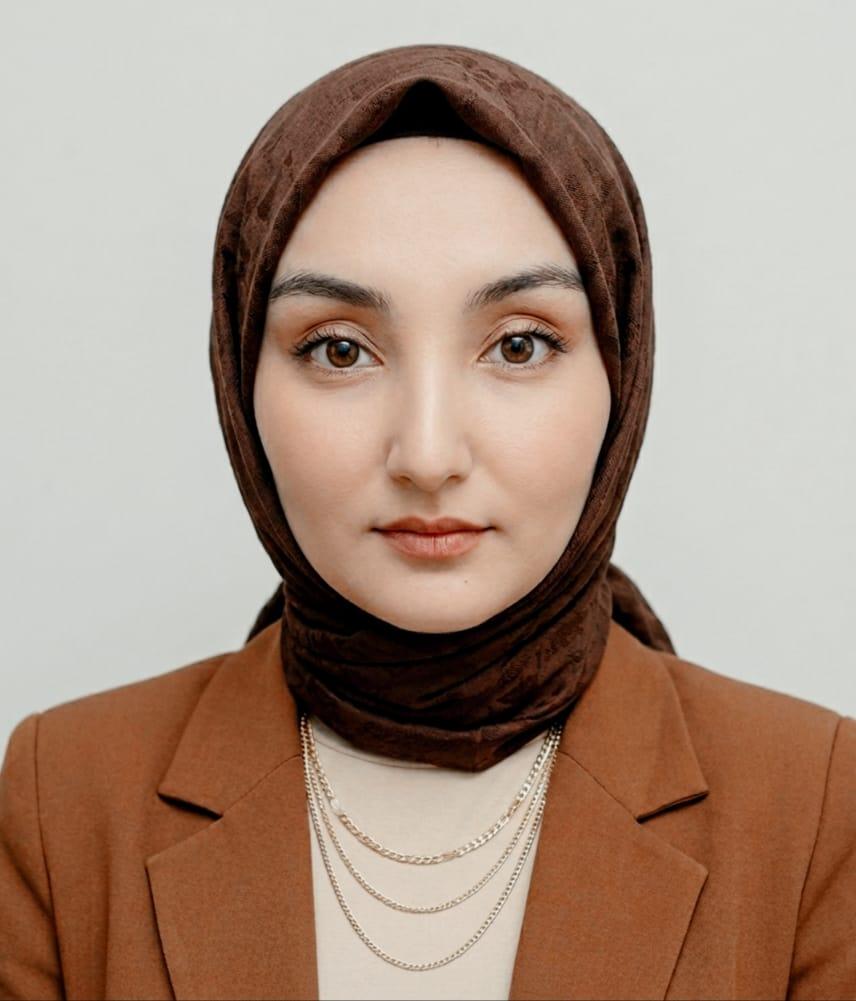
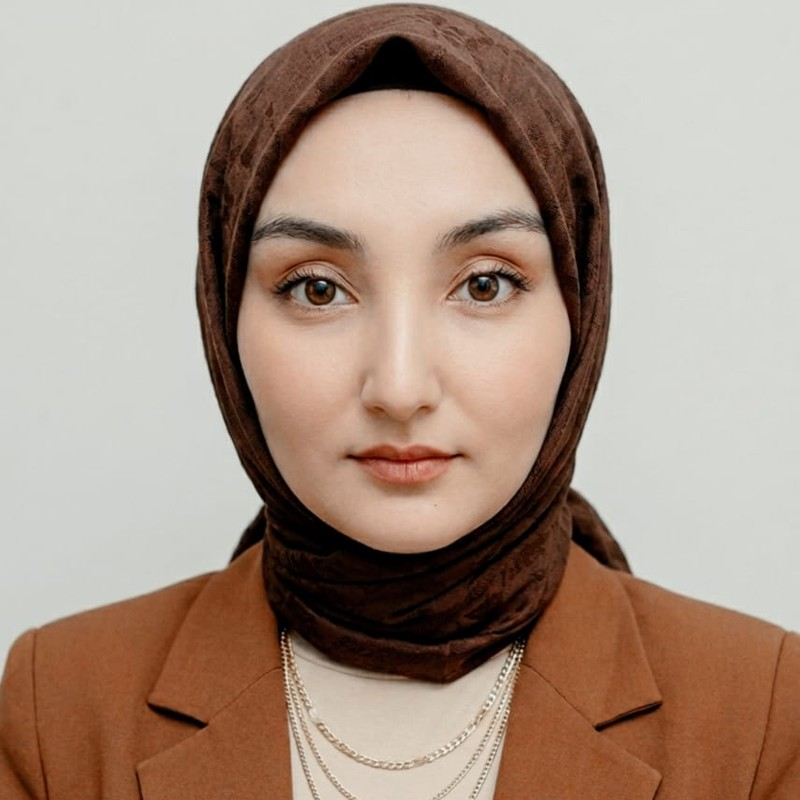
UPDATE TEAM PROFILES

Changed region(s): [[0.0, 0.2812, 1.0, 1.0], [0.25, 0.0, 0.7812, 0.2812], [0.75, 0.875, 0.8438, 1.0]]

diff --git a/fa/team/hakimi.html b/fa/team/hakimi.html
@@ -3,22 +3,22 @@
 <head>
   <meta charset="UTF-8">
   <meta name="viewport" content="width=device-width, initial-scale=1.0">
-  <title>حسیب الله کریمی — Mind i مرکز تحقیق و توانمندسازی</title>
-  <meta name="description" content="حسیب الله کریمی — مسئول امور محصلان در Mind i، مرکز تحقیق و توانمندسازی.">
+  <title>داکتر حسیب الله حکیمی — Mind i مرکز تحقیق و توانمندسازی</title>
+  <meta name="description" content="داکتر حسیب الله حکیمی — مسئول امور محصلان در Mind i، مرکز تحقیق و توانمندسازی.">
   <meta name="theme-color" content="#FFFFFF">
   <meta property="og:type" content="website">
   <meta property="og:site_name" content="Mind i">
   <meta property="og:locale" content="fa_AF">
-  <meta property="og:title" content="حسیب الله کریمی — Mind i مرکز تحقیق و توانمندسازی">
-  <meta property="og:description" content="حسیب الله کریمی — مسئول امور محصلان در Mind i، مرکز تحقیق و توانمندسازی.">
+  <meta property="og:title" content="داکتر حسیب الله حکیمی — Mind i مرکز تحقیق و توانمندسازی">
+  <meta property="og:description" content="داکتر حسیب الله حکیمی — مسئول امور محصلان در Mind i، مرکز تحقیق و توانمندسازی.">
   <meta property="og:url" content="https://mindiresearch.vercel.app/fa/team/hakimi.html">
   <meta property="og:image" content="https://mindiresearch.vercel.app/assets/og-image.png">
   <meta property="og:image:width" content="1200">
   <meta property="og:image:height" content="630">
   <meta property="og:image:alt" content="Mind i — Research &amp; Empowerment Center">
   <meta name="twitter:card" content="summary_large_image">
-  <meta name="twitter:title" content="حسیب الله کریمی — Mind i مرکز تحقیق و توانمندسازی">
-  <meta name="twitter:description" content="حسیب الله کریمی — مسئول امور محصلان در Mind i، مرکز تحقیق و توانمندسازی.">
+  <meta name="twitter:title" content="داکتر حسیب الله حکیمی — Mind i مرکز تحقیق و توانمندسازی">
+  <meta name="twitter:description" content="داکتر حسیب الله حکیمی — مسئول امور محصلان در Mind i، مرکز تحقیق و توانمندسازی.">
   <meta name="twitter:image" content="https://mindiresearch.vercel.app/assets/og-image.png">
 
 
@@ -116,16 +116,33 @@
       <div class="max-w-7xl mx-auto px-6 lg:px-10 py-14 md:py-20">
         <a href="../team.html" class="back-link"><i class="fa-solid fa-arrow-right"></i> بازگشت به تیم</a>
         <div class="profile-hero mt-10 reveal">
-          <span class="profile-avatar"><img src="../../assets/avatar-male.png" alt="" loading="lazy"></span>
+          <span class="profile-avatar"><img src="../../assets/team-hakimi.jpg" alt="داکتر حسیب الله حکیمی" loading="lazy"></span>
           <p class="kicker mt-6">پروفایل عضو تیم</p>
-          <h1 class="font-serif font-semibold text-3xl sm:text-4xl mt-3">حسیب الله کریمی</h1>
+          <h1 class="font-serif font-semibold text-3xl sm:text-4xl mt-3">داکتر حسیب الله حکیمی</h1>
           <p class="author-role mt-2">مسئول امور محصلان</p>
         </div>
       </div>
     </section>
 
+    <!-- ============================= معرفی ============================= -->
+    <section class="section-pad border-t border-rule">
+      <div class="max-w-7xl mx-auto px-6 lg:px-10">
+        <div class="max-w-3xl mx-auto reveal">
+          <p class="kicker text-center">معرفی</p>
+          <p class="profile-intro mt-6">
+            حسیب الله حکیمی محصل سال پنجم رشتهٔ طب از افغانستان است که علاقهٔ زیادی به تحقیقات طبی، آموزش طبی
+            و توسعهٔ اکادمیک دارد. او بهصورت فعال در تحقیقات علمی سهم میگیرد، مضامین طبی تدریس میکند و
+            متعهد به ترویج یادگیری مبتنی بر شواهد در میان محصلان طب است. حسیب الله عضو فعال Mind i مرکز تحقیق
+            و ظرفیتسازی است، جایی که در تحقیق، توسعهٔ محصلان و ابتکارات اکادمیک سهم میگیرد. زمینههای
+            حرفهای او شامل طب بالینی، صحت عامه و پیشبرد نظام صحی از طریق تحقیق، تعلیم و همکاری میشود. او
+            متعهد به یادگیری مداوم و سهمگیری معنادار در طب و صحت افغانستان و فراتر از آن است.
+          </p>
+        </div>
+      </div>
+    </section>
+
     <!-- ============================= سخن ============================= -->
-    <section class="section-pad">
+    <section class="section-pad border-t border-rule">
       <div class="max-w-7xl mx-auto px-6 lg:px-10">
         <div class="flex flex-col items-center text-center">
           <blockquote class="profile-quote reveal">
@@ -133,8 +150,7 @@
           </blockquote>
 
           <div class="social-links mt-10 reveal">
-            <a href="mailto:mindi.insights@gmail.com" class="social-link"><i class="fa-solid fa-envelope"></i> ایمیل به Mind i</a>
-            <a href="https://www.linkedin.com/company/mind-i" target="_blank" rel="noopener" class="social-link"><i class="fa-brands fa-linkedin"></i> Mind i در لینکدین</a>
+            <a href="https://www.linkedin.com/in/hasibullah-hakimi-2b37683a8" target="_blank" rel="noopener" class="social-link"><i class="fa-brands fa-linkedin"></i> داکتر حکیمی در لینکدین</a>
           </div>
         </div>
       </div>

diff --git a/team/hakimi.html b/team/hakimi.html
@@ -3,22 +3,22 @@
 <head>
   <meta charset="UTF-8">
   <meta name="viewport" content="width=device-width, initial-scale=1.0">
-  <title>Hasibullah Hakimi — Mind i Research &amp; Empowerment Center</title>
-  <meta name="description" content="Hasibullah Hakimi, Head of Student Affairs at Mind i Research & Empowerment Center.">
+  <title>Dr. Hasibullah Hakimi — Mind i Research &amp; Empowerment Center</title>
+  <meta name="description" content="Dr. Hasibullah Hakimi, Head of Student Affairs at Mind i Research & Empowerment Center.">
   <meta name="theme-color" content="#FFFFFF">
   <meta property="og:type" content="website">
   <meta property="og:site_name" content="Mind i">
   <meta property="og:locale" content="en_US">
-  <meta property="og:title" content="Hasibullah Hakimi — Mind i Research &amp; Empowerment Center">
-  <meta property="og:description" content="Hasibullah Hakimi, Head of Student Affairs at Mind i Research & Empowerment Center.">
+  <meta property="og:title" content="Dr. Hasibullah Hakimi — Mind i Research &amp; Empowerment Center">
+  <meta property="og:description" content="Dr. Hasibullah Hakimi, Head of Student Affairs at Mind i Research & Empowerment Center.">
   <meta property="og:url" content="https://mindiresearch.vercel.app/team/hakimi.html">
   <meta property="og:image" content="https://mindiresearch.vercel.app/assets/og-image.png">
   <meta property="og:image:width" content="1200">
   <meta property="og:image:height" content="630">
   <meta property="og:image:alt" content="Mind i — Research &amp; Empowerment Center">
   <meta name="twitter:card" content="summary_large_image">
-  <meta name="twitter:title" content="Hasibullah Hakimi — Mind i Research &amp; Empowerment Center">
-  <meta name="twitter:description" content="Hasibullah Hakimi, Head of Student Affairs at Mind i Research & Empowerment Center.">
+  <meta name="twitter:title" content="Dr. Hasibullah Hakimi — Mind i Research &amp; Empowerment Center">
+  <meta name="twitter:description" content="Dr. Hasibullah Hakimi, Head of Student Affairs at Mind i Research & Empowerment Center.">
   <meta name="twitter:image" content="https://mindiresearch.vercel.app/assets/og-image.png">
 
 
@@ -116,16 +116,35 @@
       <div class="max-w-7xl mx-auto px-6 lg:px-10 py-14 md:py-20">
         <a href="../team.html" class="back-link"><i class="fa-solid fa-arrow-left"></i> Back to team</a>
         <div class="profile-hero mt-10 reveal">
-          <span class="profile-avatar"><img src="../assets/avatar-male.png" alt="" loading="lazy"></span>
+          <span class="profile-avatar"><img src="../assets/team-hakimi.jpg" alt="Dr. Hasibullah Hakimi" loading="lazy"></span>
           <p class="kicker mt-6">Team profile</p>
-          <h1 class="font-serif font-medium text-3xl sm:text-4xl mt-3">Hasibullah Hakimi</h1>
+          <h1 class="font-serif font-medium text-3xl sm:text-4xl mt-3">Dr. Hasibullah Hakimi</h1>
           <p class="author-role mt-2">Head of Student Affairs</p>
         </div>
       </div>
     </section>
 
+    <!-- ============================= Introduction ============================= -->
+    <section class="section-pad border-t border-rule">
+      <div class="max-w-7xl mx-auto px-6 lg:px-10">
+        <div class="max-w-3xl mx-auto reveal">
+          <p class="kicker text-center">Introduction</p>
+          <p class="profile-intro mt-6">
+            Hasibullah Hakimi is a fifth-year medical student from Afghanistan with a strong passion for medical
+            research, medical education, and academic development. He is actively involved in scientific
+            research, teaches medical subjects, and is committed to promoting evidence-based learning among
+            medical students. Hasibullah is an active member of Mind i Research and Capacity Building Center,
+            where he contributes to research, student development, and academic initiatives. His professional
+            interests include clinical medicine, public health, and advancing healthcare through research,
+            education, and collaboration. He is dedicated to continuous learning and making meaningful
+            contributions to medicine and healthcare in Afghanistan and beyond.
+          </p>
+        </div>
+      </div>
+    </section>
+
     <!-- ============================= Statement ============================= -->
-    <section class="section-pad">
+    <section class="section-pad border-t border-rule">
       <div class="max-w-7xl mx-auto px-6 lg:px-10">
         <div class="flex flex-col items-center text-center">
           <blockquote class="profile-quote reveal">
@@ -133,8 +152,7 @@
           </blockquote>
 
           <div class="social-links mt-10 reveal">
-            <a href="mailto:mindi.insights@gmail.com" class="social-link"><i class="fa-solid fa-envelope"></i> Email Mind i</a>
-            <a href="https://www.linkedin.com/company/mind-i" target="_blank" rel="noopener" class="social-link"><i class="fa-brands fa-linkedin"></i> Mind i on LinkedIn</a>
+            <a href="https://www.linkedin.com/in/hasibullah-hakimi-2b37683a8" target="_blank" rel="noopener" class="social-link"><i class="fa-brands fa-linkedin"></i> Dr. Hakimi on LinkedIn</a>
           </div>
         </div>
       </div>

diff --git a/fa/team.html b/fa/team.html
@@ -169,8 +169,8 @@
           </a>
 
           <a href="team/hakimi.html" class="team-card reveal">
-            <span class="team-card-avatar"><img src="../assets/avatar-male.png" alt="" loading="lazy"></span>
-            <h2 class="font-serif font-medium text-lg mt-5">حسیب الله کریمی</h2>
+            <span class="team-card-avatar"><img src="../assets/team-hakimi.jpg" alt="داکتر حسیب الله حکیمی" loading="lazy"></span>
+            <h2 class="font-serif font-medium text-lg mt-5">داکتر حسیب الله حکیمی</h2>
             <p class="author-role mt-1">مسئول امور محصلان</p>
             <p class="team-card-excerpt clamp-3">
               تحقیق به گسترش درک علمی کمک میکند، کیفیت علمی را بهبود میبخشد و از تصمیمگیری مبتنی بر شواهد

diff --git a/css/style.css b/css/style.css
@@ -669,7 +669,7 @@ a.author-row:hover {
   flex-shrink: 0;
   width: 3.5rem;
   height: 3.5rem;
-  border-radius: 999px;
+  border-radius: 0.85rem;
   border: 1px solid var(--rule);
   background: var(--manila);
   overflow: hidden;
@@ -749,7 +749,7 @@ a.author-row:hover .author-avatar img {
   flex-shrink: 0;
   width: 6rem;
   height: 6rem;
-  border-radius: 999px;
+  border-radius: 1.1rem;
   border: 1px solid var(--rule);
   background: var(--manila);
   overflow: hidden;
@@ -797,9 +797,9 @@ a.author-row:hover .author-avatar img {
 }
 .profile-avatar {
   flex-shrink: 0;
-  width: 9rem;
-  height: 9rem;
-  border-radius: 999px;
+  width: 11rem;
+  height: 11rem;
+  border-radius: 1.5rem;
   border: 1px solid var(--rule);
   background: var(--manila);
   overflow: hidden;

diff --git a/team.html b/team.html
@@ -172,8 +172,8 @@
           </a>
 
           <a href="team/hakimi.html" class="team-card reveal">
-            <span class="team-card-avatar"><img src="assets/avatar-male.png" alt="" loading="lazy"></span>
-            <h2 class="font-serif font-medium text-lg mt-5">Hasibullah Hakimi</h2>
+            <span class="team-card-avatar"><img src="assets/team-hakimi.jpg" alt="Dr. Hasibullah Hakimi" loading="lazy"></span>
+            <h2 class="font-serif font-medium text-lg mt-5">Dr. Hasibullah Hakimi</h2>
             <p class="author-role mt-1">Head of Student Affairs</p>
             <p class="team-card-excerpt clamp-3">
               Research helps expand scientific understanding, improves academic quality, and supports

diff --git a/fa/team/azizi.html b/fa/team/azizi.html
@@ -149,8 +149,7 @@
           </blockquote>
 
           <div class="social-links mt-10 reveal">
-            <a href="mailto:mindi.insights@gmail.com" class="social-link"><i class="fa-solid fa-envelope"></i> ایمیل به Mind i</a>
-            <a href="https://www.linkedin.com/company/mind-i" target="_blank" rel="noopener" class="social-link"><i class="fa-brands fa-linkedin"></i> Mind i در لینکدین</a>
+            <a href="https://www.linkedin.com/in/abdulbasit-azizi-724b563a2" target="_blank" rel="noopener" class="social-link"><i class="fa-brands fa-linkedin"></i> عبدالباسط در لینکدین</a>
           </div>
         </div>
       </div>

diff --git a/fa/team/mirzada.html b/fa/team/mirzada.html
@@ -150,8 +150,7 @@
           </blockquote>
 
           <div class="social-links mt-10 reveal">
-            <a href="mailto:mindi.insights@gmail.com" class="social-link"><i class="fa-solid fa-envelope"></i> ایمیل به Mind i</a>
-            <a href="https://www.linkedin.com/company/mind-i" target="_blank" rel="noopener" class="social-link"><i class="fa-brands fa-linkedin"></i> Mind i در لینکدین</a>
+            <a href="https://www.linkedin.com/in/maryam-mirzada-86b945351" target="_blank" rel="noopener" class="social-link"><i class="fa-brands fa-linkedin"></i> مریم در لینکدین</a>
           </div>
         </div>
       </div>

diff --git a/team/azizi.html b/team/azizi.html
@@ -151,8 +151,7 @@
           </blockquote>
 
           <div class="social-links mt-10 reveal">
-            <a href="mailto:mindi.insights@gmail.com" class="social-link"><i class="fa-solid fa-envelope"></i> Email Mind i</a>
-            <a href="https://www.linkedin.com/company/mind-i" target="_blank" rel="noopener" class="social-link"><i class="fa-brands fa-linkedin"></i> Mind i on LinkedIn</a>
+            <a href="https://www.linkedin.com/in/abdulbasit-azizi-724b563a2" target="_blank" rel="noopener" class="social-link"><i class="fa-brands fa-linkedin"></i> Abdulbasit on LinkedIn</a>
           </div>
         </div>
       </div>

diff --git a/team/mirzada.html b/team/mirzada.html
@@ -152,8 +152,7 @@
           </blockquote>
 
           <div class="social-links mt-10 reveal">
-            <a href="mailto:mindi.insights@gmail.com" class="social-link"><i class="fa-solid fa-envelope"></i> Email Mind i</a>
-            <a href="https://www.linkedin.com/company/mind-i" target="_blank" rel="noopener" class="social-link"><i class="fa-brands fa-linkedin"></i> Mind i on LinkedIn</a>
+            <a href="https://www.linkedin.com/in/maryam-mirzada-86b945351" target="_blank" rel="noopener" class="social-link"><i class="fa-brands fa-linkedin"></i> Maryam on LinkedIn</a>
           </div>
         </div>
       </div>

diff --git a/fa/team/ebrahimi.html b/fa/team/ebrahimi.html
@@ -150,7 +150,6 @@
           </blockquote>
 
           <div class="social-links mt-10 reveal">
-            <a href="mailto:mindi.insights@gmail.com" class="social-link"><i class="fa-solid fa-envelope"></i> ایمیل به Mind i</a>
             <a href="https://www.linkedin.com/company/mind-i" target="_blank" rel="noopener" class="social-link"><i class="fa-brands fa-linkedin"></i> Mind i در لینکدین</a>
           </div>
         </div>

diff --git a/team/ebrahimi.html b/team/ebrahimi.html
@@ -151,7 +151,6 @@
           </blockquote>
 
           <div class="social-links mt-10 reveal">
-            <a href="mailto:mindi.insights@gmail.com" class="social-link"><i class="fa-solid fa-envelope"></i> Email Mind i</a>
             <a href="https://www.linkedin.com/company/mind-i" target="_blank" rel="noopener" class="social-link"><i class="fa-brands fa-linkedin"></i> Mind i on LinkedIn</a>
           </div>
         </div>
